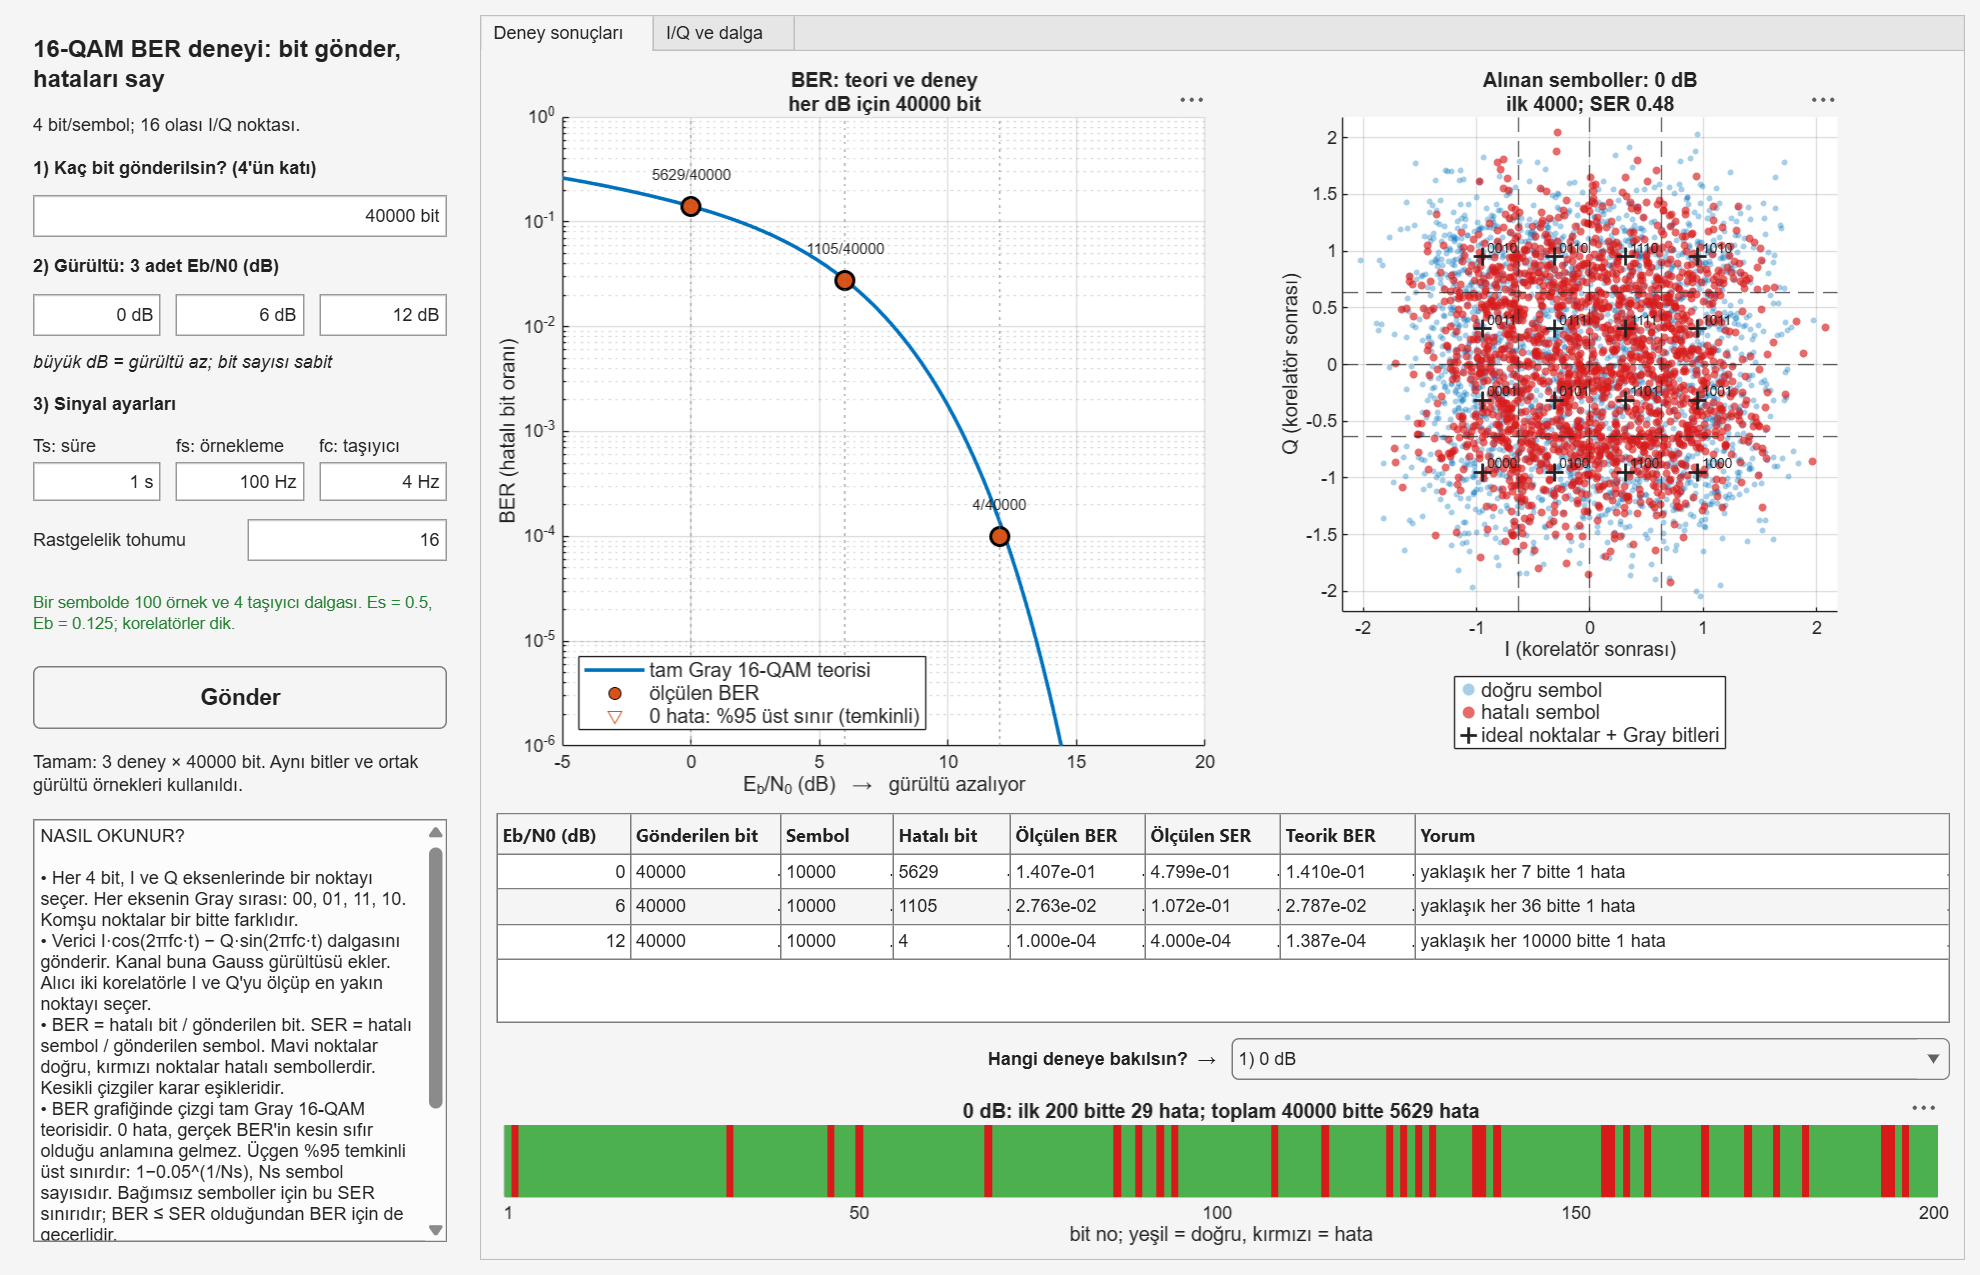
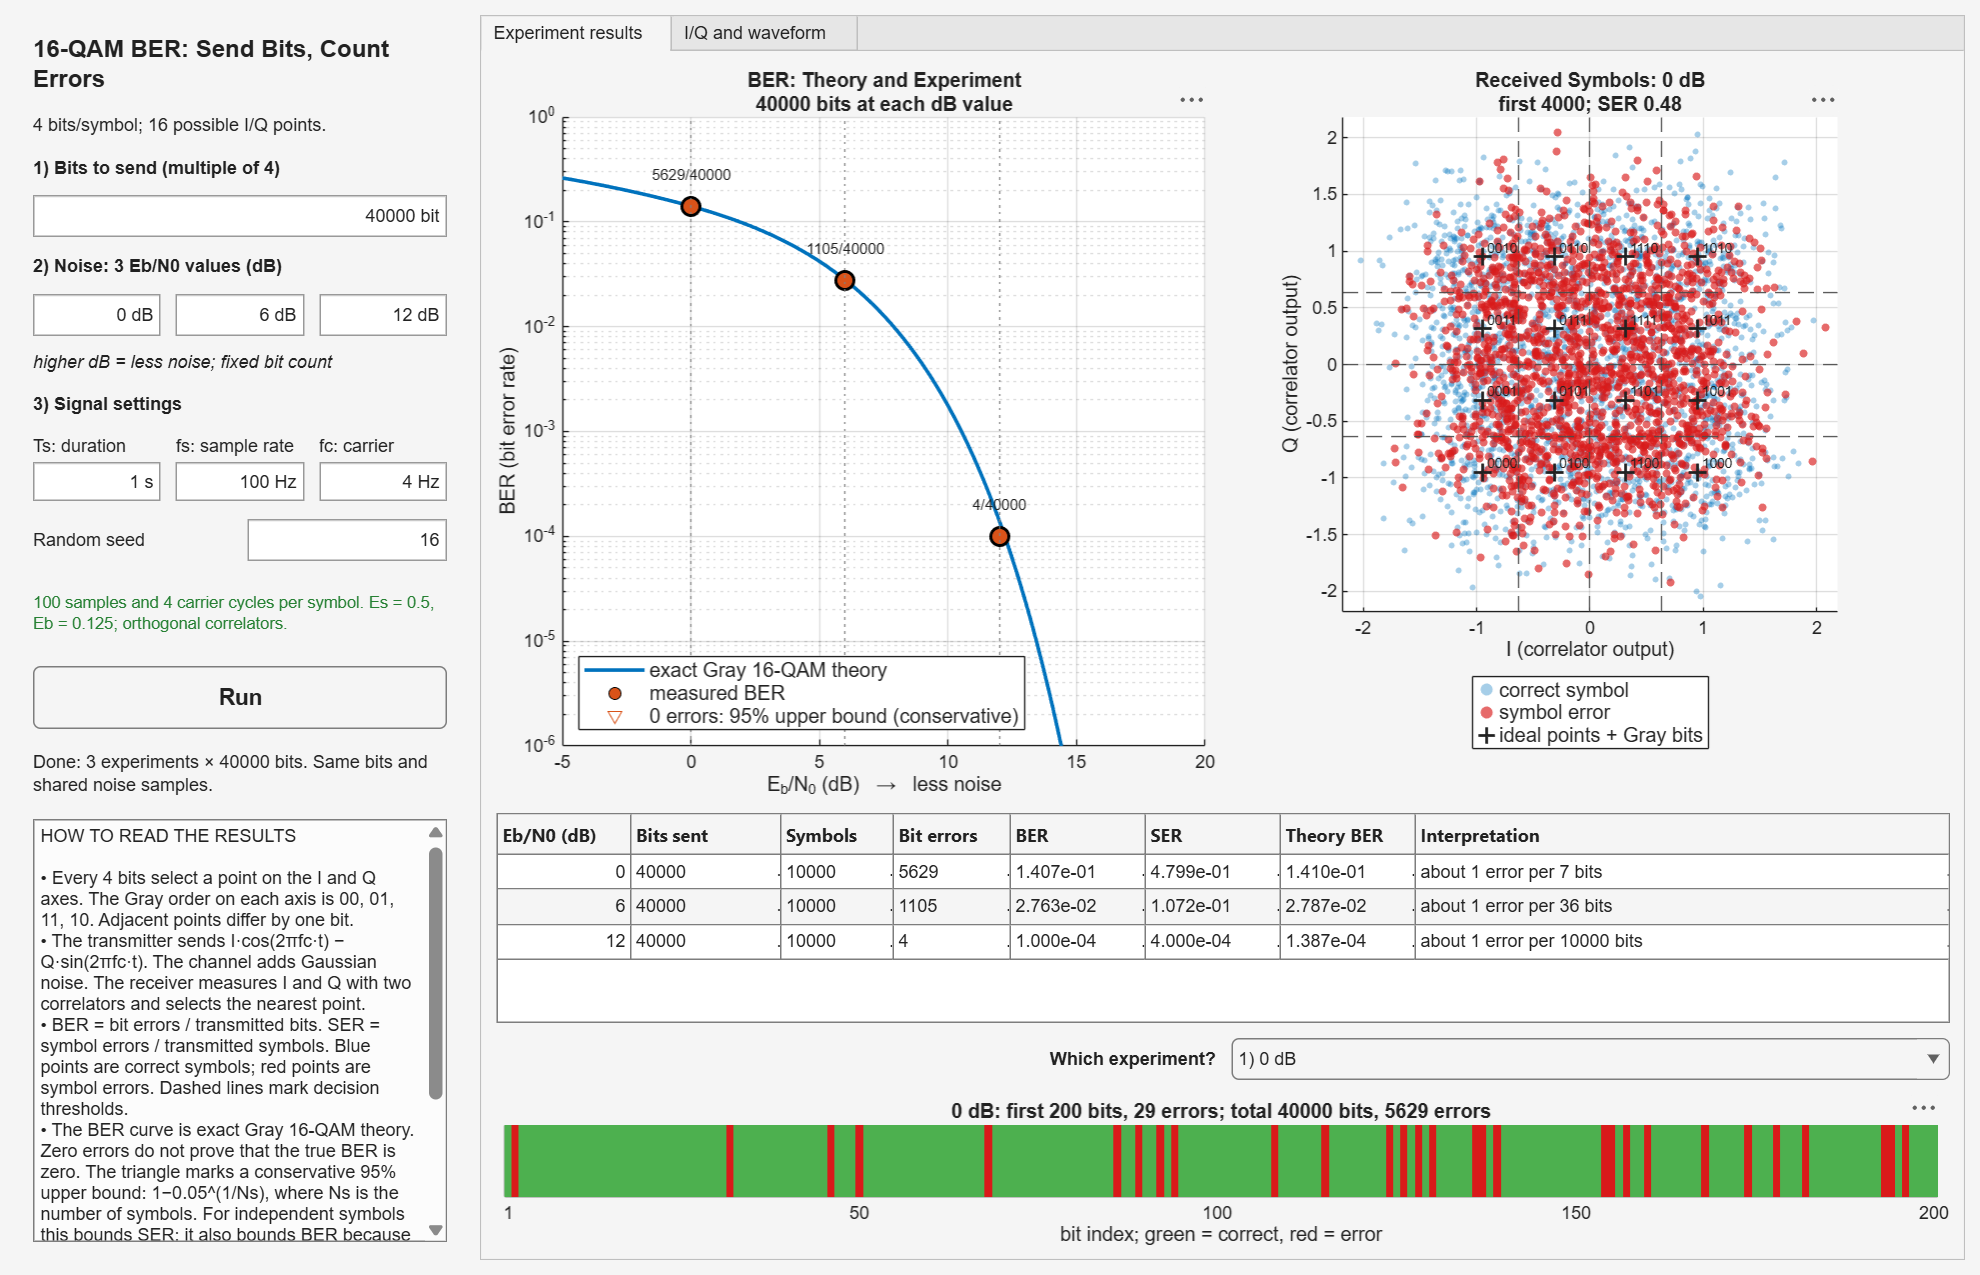
Regenerate validated 16-QAM figures in English

diff --git a/results/qam16/README.md b/results/qam16/README.md
@@ -1,8 +1,8 @@
-# 16-QAM doğrulama sonuçları
+# 16-QAM validation results
 
-17 Kasım 2026'da MATLAB R2026b Prerelease Update 1 ile üretildi. Kod kaynağı `src/run_qam16_analysis.m`; her noktada 2 000 000 bit, Ts=1 s, Fs=100 Hz, fc=4 Hz, seed=451. Bunlar ideal senkronlu AWGN simülasyonlarıdır; fiziksel donanım ölçümü değildir.
+Generated on 17 November 2026 with MATLAB R2026b Prerelease Update 1. Source: `src/run_qam16_analysis.m`; 2,000,000 bits per point, Ts=1 s, Fs=100 Hz, fc=4 Hz, seed=451. These are ideally synchronised AWGN simulations, not physical hardware measurements.
 
-| Eb/N0 | Hatalı bit | Ölçülen BER | Tam teorik BER |
+| Eb/N0 | Incorrect bits | Measured BER | Exact theoretical BER |
 |---|---:|---:|---:|
 | 0 dB | 281654 | 0.140827 | 0.140982 |
 | 4 dB | 116746 | 0.058373 | 0.058624 |
@@ -10,25 +10,26 @@
 | 12 dB | 279 | 0.0001395 | 0.0001387 |
 | 14 dB | 3 | 0.0000015 | 0.0000028 |
 
-14 dB'de yalnız üç hata sayıldı; bu noktanın hassasiyeti sınırlıdır. Grafikte yaklaşık %95 hata çubukları yalnız en az 100 hata bulunan noktalarda gösterilir; aynı sembolün bitleri arasındaki bağımlılık sembol bazında standart hata hesabıyla korunur. Noktalar ortak standart gürültü örnekleri kullandığı için birbirinden bağımsız tekrarlar değildir.
+Only three errors were counted at 14 dB, so the precision of that point is limited. Approximate 95% error bars are shown only for points with at least 100 errors. The standard error is calculated per symbol, preserving the dependence between bits in the same symbol. Since the points use common standard noise samples, they are not independent repetitions.
 
-BER=10⁻³ için tam teorinin sayısal çözümü: **16-QAM 10.5224 dB**, **QPSK 6.7895 dB**, fark **3.7329 dB**. Bu hedefe ait teorik sonuçtur; her BER için sabit bir güç farkı değildir.
+Numerical inversion of the exact theory for BER=10⁻³ gives **16-QAM 10.5224 dB**, **QPSK 6.7895 dB**, a difference of **3.7329 dB**. This is a theoretical result for that target, not a constant power gap at every BER.
 
-![BER karşılaştırması](qam16_ber.png)
+![BER comparison](qam16_ber.png)
 
-![Alınan semboller](qam16_constellations.png)
+![Received symbols](qam16_constellations.png)
 
-![Gerçek taşıyıcı dalgası](qam16_waveform.png)
+![Real carrier waveform](qam16_waveform.png)
 
-## Dosyalar ve tekrar üretme
+## Files and reproduction
 
-- `qam16_ber.csv`: sekiz Eb/N0 noktasının tüm sayaçları, temel bant karşılaştırması ve standart hatalar.
-- `qam16_results.mat`: sonuç tablosu, ayarlar ve teorik hedefler.
-- `qam16_gui.png`: üç deney çalıştıktan sonraki arayüz görüntüsü.
-- `qam16_ber.png`, `qam16_constellations.png`, `qam16_waveform.png`: yukarıdaki grafikler.
+- `qam16_ber.csv`: all counts, baseband comparisons and standard errors for the eight Eb/N0 points.
+- `qam16_results.mat`: result table, settings and theoretical targets.
+- `qam16_gui.png`: GUI screenshot after all three experiments have run.
+- `qam16_ber.png`, `qam16_constellations.png`, `qam16_waveform.png`: the plots above.
+- [English PDF summary and figures](../../teslim/16QAM_Summary_and_Figures.pdf).
 
 ```matlab
-% Proje kökünde:
+% From the project root:
 addpath('src','gui')
 test_mod_demod
 test_qam16
@@ -38,4 +39,4 @@ f = qam16_gui(struct('Visible','off','AutoRun',true, ...
 close(f)
 ```
 
-Kontroller: 16 etiketin tamamı, Gray komşuluğu, Es=1 normalizasyonu, gürültüsüz gerçek dalgada sıfır hata, teorik BER, örnek ve korelatör gürültü varyansı, Fs/Ts değişiminde BER uyumu ve geçersiz ayarların reddi. Arayüzün üç deneyi çalıştırması ve sonuç yapısı gerçek MATLAB'de doğrulandı.
+Checks cover all 16 labels, Gray adjacency, Es=1 normalisation, zero errors for a noiseless real waveform, theoretical BER, sample and correlator noise variance, BER agreement when Fs/Ts changes, and rejection of invalid settings. The GUI's three experiments and result structure were validated in real MATLAB. These statements describe the recorded validation run above.
